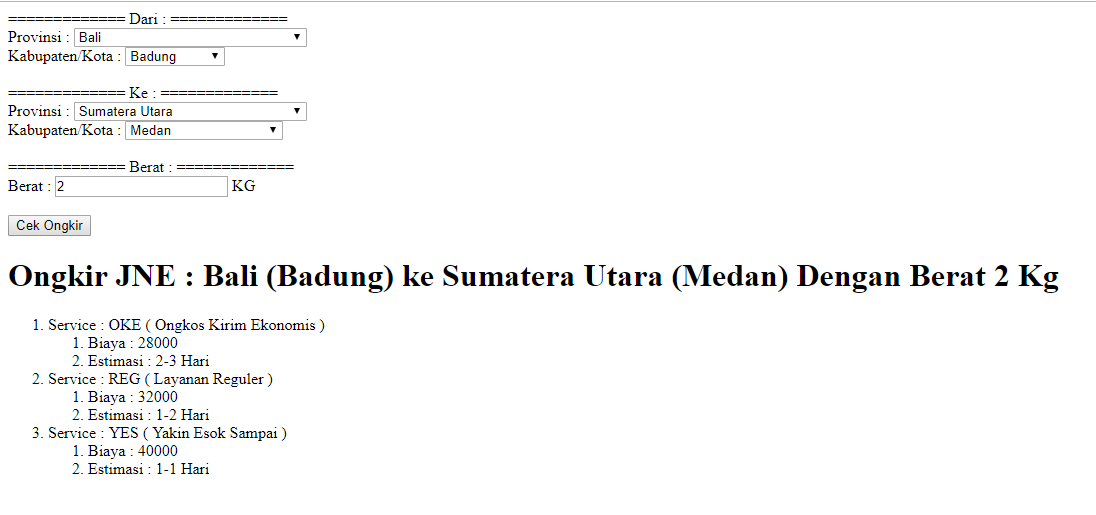
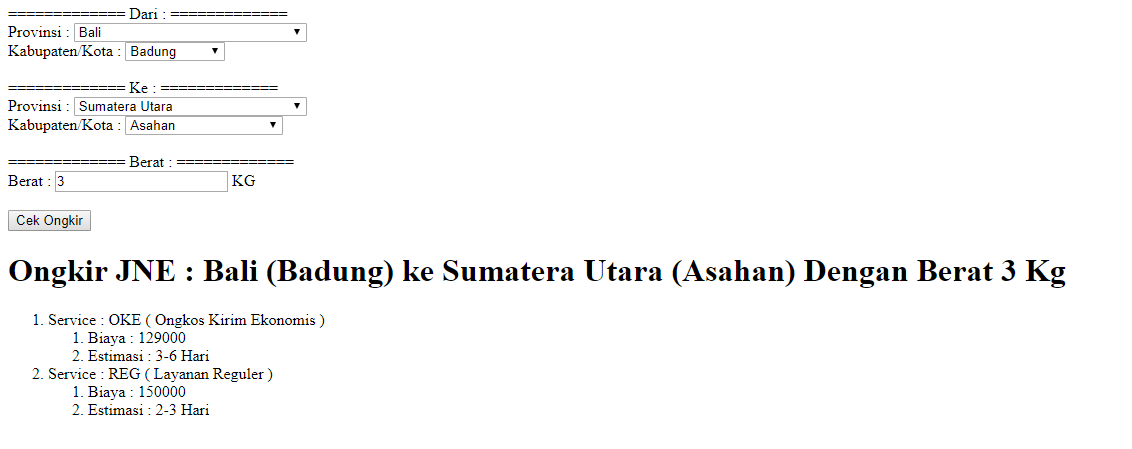
Fix Berat

Changed region(s): [[0.0, 0.0, 0.9617, 0.9354]]

diff --git a/getOngkir.php b/getOngkir.php
@@ -9,7 +9,7 @@ curl_setopt_array($curl, array(
   CURLOPT_TIMEOUT => 30,
   CURLOPT_HTTP_VERSION => CURL_HTTP_VERSION_1_1,
   CURLOPT_CUSTOMREQUEST => "POST",
-  CURLOPT_POSTFIELDS => "origin=".$_POST['city']."&destination=".$_POST['city2']."&weight=".$_POST['berat']."&courier=jne",
+  CURLOPT_POSTFIELDS => "origin=".$_POST['city']."&destination=".$_POST['city2']."&weight=".$_POST['berat']."000&courier=jne",
   CURLOPT_HTTPHEADER => array(
     "content-type: application/x-www-form-urlencoded",
    "key: api-key"
@@ -28,7 +28,7 @@ if ($err) {
 
   $dari = $response_decode['rajaongkir']['origin_details']['province']." (".$response_decode['rajaongkir']['origin_details']['city_name'].")";
   $ke = $response_decode['rajaongkir']['destination_details']['province']." (".$response_decode['rajaongkir']['destination_details']['city_name'].")";
-  $berat = $response_decode['rajaongkir']['query']['weight'];
+  $berat = $_POST['berat'];
 
   echo "<h1>Ongkir JNE : $dari ke $ke  Dengan Berat $berat Kg</h1>";
   echo "<ol>";
